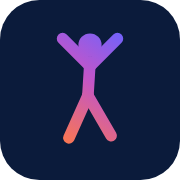
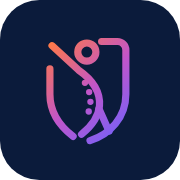
Новый знак, понятный результат клиента, тарифы с выходом, правки темы
- Знак: щит-паспорт, фигура с поднятой рукой и позвоночник точками (по концепту из генерации), иконки PWA
- Плашка «Главное» на результате открывает шторку: что увидела камера, что это значит, что изменится, что сделаем
- Клиенту зоны бытовыми словами и пояснение к каждому действию; «Ваша осанка» вместо «Как вас ведет»; «Результат» в меню
- Тарифы: кнопка «Назад» и тёмная тема кабинета
- Белый прямоугольник вокруг кнопки Google убран; первый экран во всю высоту, цвет панели браузера под экран
- Экран входа клиента с шапкой бренда

Claude-Session: https://claude.ai/code/session_01BHbfGTRUv2gfX5DUA3nVHz

Changed region(s): [[0.25, 0.1667, 0.7222, 0.8056]]

diff --git a/js/app.js b/js/app.js
@@ -17,7 +17,7 @@ import { sayText } from './saytext.js';
 import { BATTERY_UNITS, forwardBend, singleBalance, thoracicRotation, trotSweep, overheadReach, chairStand, retroGait, autoScale } from './test-battery.js';
 import { mountPacing, falseStart, matchScore, PHASE, SHORT_CMD, GO_WORD, COUNT_WORDS, numWord, ZERO_CLICK } from './pacing-guard.js';
 import { pinhole, fpsGuard, flushGL } from './hardware-adapter.js';
-import { setSession, MODES, passiveOn } from './session-controller.js';
+import { setSession, MODES, passiveOn, syncThemeColor } from './session-controller.js';
 import { touchSummary, resetTouch, startPassive, rememberBaseline } from './touch-tracker.js';
 import { runLoader, vnsSummary } from './vns-phenotype.js';
 import { ribFlare, apicalBreath, buttWink } from './biomechanics-engine.js';
@@ -76,25 +76,29 @@ const lc = t => t ? t[0].toLowerCase() + t.slice(1) : t;
 const acc = t => t.split(' ').map(w => { const m = w.match(/^(.*?)([,.]?)$/), x = m[1];
   for (const [a, b] of [['ая', 'ую'], ['яя', 'юю'], ['ца', 'цу'], ['ия', 'ию']]) if (x.endsWith(a)) return x.slice(0, -a.length) + b + m[2];
   return w; }).join(' ');
-export function verdict(top, findings) {
+// plain: клиенту бытовые зоны («ягодица сбоку справа») вместо анатомических названий
+export function verdict(top, findings, plain = false) {
   return VERBS.map(([k, verb]) => { const items = top.filter(s => s.k === k && !s.ambiguous).slice(0, 12); if (!items.length) return null;
     const s0 = items[0], f = findings.find(f => f.muscles.some(m => m.id === s0.id && (m.side === s0.side || m.side === 'BOTH')));
     // одна мышца с двух сторон: «с двух сторон» вместо двух строк
     const ids = [...new Set(items.map(s => s.id))], names = ids.map(id => { const sd = items.filter(s => s.id === id).map(s => s.side);
-      return acc(lc(C.muscles[id].name)) + ' ' + (sd.length > 1 ? 'с двух сторон' : sideWord(sd[0])); });
-    return { k, verb, what: names.join(', '), why: f ? f.observed.replace(' (на границе нормы)', '') : s0.byChain ? `Возможно, по цепи «${s0.byChain}»` : '' }; }).filter(Boolean);
+      return (plain ? lc(C.muscles[id].zone || C.muscles[id].name) : acc(lc(C.muscles[id].name))) + ' ' + (sd.length > 1 ? 'с двух сторон' : sideWord(sd[0])); });
+    if (plain) { const uniq = [...new Set(names)]; names.length = 0; names.push(...uniq.slice(0, 3)); }
+    return { k, verb, f, what: names.join(', '), why: f ? f.observed.replace(' (на границе нормы)', '') : s0.byChain ? `Возможно, по цепи «${s0.byChain}»` : '' }; }).filter(Boolean);
 }
 // skip: причины, которые уже показаны выше на экране (блок «Измерено»), под решениями не повторяем.
 // У каждой строки метка источника: ИЗМЕРЕНО (опирается на замер) или ГИПОТЕЗА (вывод по цепи). «На границе нормы» показываем, а не вырезаем.
-export function verdictCard(top, findings, empty = 'Явных перекосов не видно', skip = []) {
-  const v = verdict(top, findings);
+// что значит каждое действие простыми словами: «вот почему мне так говорили»
+const VERB_WHY = { WEAK: 'Эти мышцы недорабатывают, и их работу берут на себя соседние. Отсюда усталость и перекос.', SHORT: 'Эти мышцы зажаты и тянут сустав на себя. Отсюда скованность и тянущие ощущения.', HYPER: 'Эти мышцы работают за других и перегружены. Их нужно разгрузить, а не тянуть.' };
+export function verdictCard(top, findings, empty = 'Явных перекосов не видно', skip = [], plain = false) {
+  const v = verdict(top, findings, plain);
   if (!v.length) return `<div class="card empty">${ic('check')}<b>${empty}</b><span class="sub">Движение симметричное. Повтори тест через месяц.</span></div>`;
   // камера мерит угол, а мышца выведена из него: метка «замер» стоит у факта, мышца подписана как вероятная причина (аудит, п. 2)
-  return `<div class="card" style="padding:4px var(--s4)"><p class="sub" style="font-size:13px;padding-top:12px">Мышцы ниже: вероятная причина того, что измерила камера. Проверит специалист руками.</p>${v.map((x, i) => {
+  return `<div class="card" style="padding:4px var(--s4)"><p class="sub" style="font-size:13px;padding-top:12px">${plain ? 'Что мешает телу двигаться ровно. Это вероятная причина того, что увидела камера.' : 'Мышцы ниже: вероятная причина того, что измерила камера. Проверит специалист руками.'}</p>${v.map((x, i) => {
     const s0 = top.find(s => s.k === x.k && !s.ambiguous), f = s0 && findings.find(f => f.muscles.some(m => m.id === s0.id && (m.side === s0.side || m.side === 'BOTH')));
     const measured = f && s0 && !s0.derived && !s0.byChain, edge = f && / \(на границе нормы\)/.test(f.observed);
     const why = x.why && !skip.includes(x.why) && !(i && v[i - 1].why === x.why) ? `<span>${esc(x.why)}</span>` : '';
-    return `<div class="verdict-row"><span class="mark ${x.k}"></span><div style="flex:1;min-width:0"><div class="what"><b>${x.verb}</b> ${esc(x.what)}</div>
+    return `<div class="verdict-row"><span class="mark ${x.k}"></span><div style="flex:1;min-width:0"><div class="what"><b>${x.verb}${plain ? ':' : ''}</b> ${esc(x.what)}</div>${plain ? `<div style="font-size:14px;line-height:1.4;color:var(--sub);margin-top:4px">${VERB_WHY[x.k]}</div>` : ''}
       <div class="why">${measured ? '<span class="src">ЗАМЕР</span>' : '<span class="src hyp">ГИПОТЕЗА</span>'}${why}${edge ? '<span class="edge">на границе нормы</span>' : ''}</div></div></div>`; }).join('')}</div>`;
 }
 export const ex = id => C.exercises[id];
@@ -109,7 +113,7 @@ let view3d = null;
 let lastHead = '';
 const callerName = () => { try { const l = (new Error().stack || '').split('\n').map(x => x.trim()).filter(x => x.startsWith('at '));
   for (const x of l.slice(2)) { const m = /^at (?:async )?([\w$.]+)/.exec(x); if (m && !/^(go|Object\.go|HTMLButtonElement|HTMLDivElement|Promise|new Promise)/.test(m[1])) return m[1].replace(/^Object\./, '').slice(0, 40); } } catch (e) {} return 'screen'; };
-export function go(html) { try { screenView(callerName()); } catch (e) {} delete document.documentElement.dataset.theme; document.querySelectorAll('.qpop').forEach(x => x.remove()); if (view3d) { view3d.dispose(); view3d = null; } backFn = null; const head = html.slice(0, 260); if (head === lastHead) html = html.replace(' fade', ''); lastHead = head; app.innerHTML = html; window.scrollTo(0, 0);
+export function go(html) { try { screenView(callerName()); } catch (e) {} delete document.documentElement.dataset.theme; document.querySelectorAll('.qpop').forEach(x => x.remove()); if (view3d) { view3d.dispose(); view3d = null; } backFn = null; const head = html.slice(0, 260); if (head === lastHead) html = html.replace(' fade', ''); lastHead = head; app.innerHTML = html; window.scrollTo(0, 0); syncThemeColor();
   const tc = document.querySelector('meta[name=theme-color]'); if (tc) tc.content = html.includes('class="cam"') ? '#0A0C0F' : / dark[ "]/.test(html.slice(0, 200)) ? '#0B1B3B' : '#F5F6FA'; }
 
 // ---------- «назад»: жест и системная кнопка ведут на шаг назад в приложении, а не закрывают его ----------
@@ -1013,7 +1017,7 @@ function reasonsOf(ids, top) { const out = {};
     const list = s.k === 'WEAK' ? ((m.plan && m.plan.isolate) || m.activate || []) : releaseFor(m, s.k, ex);
     if (!out[id] && list.some(x => x.replace('{s}', sk) === id)) out[id] = { k: s.k, t: `${VERB_OF[s.k]} ${acc(lc(m.name))} ${sideWord(s.side)}` }; }
   return out; }
-// «Как вас ведет»: перекосы позы простыми словами и схемой, которая плавно уходит из ровной стойки в позу человека.
+// «Ваша осанка»: перекосы позы простыми словами и схемой, которая плавно уходит из ровной стойки в позу человека.
 // Схема спереди: правая сторона человека слева на экране. Наклоны на схеме усилены в 3 раза, чтобы их было видно.
 const POSE_PAT = { shoulder_tilt: 'tilt', trunk_shift: 'tilt', pelvis_tilt: 'pelvis', head_tilt: 'head', trot_asym: 'twist', fwd_adams: 'twist', head_forward: 'fwd', trunk_forward: 'fwd', sq_lean: 'fwd', reach_shrug: 'shrug' };
 export function posturePatterns(findings) {
@@ -1048,10 +1052,10 @@ function poseOf(pats) {
   if (g('fwd')) { const fd = g('fwd').fd; if (fd.rule.id === 'head_forward') o.headFwd = 1; else o.fwd = 14; }
   if (g('shrug')) o.shrug = 1; return o;
 }
-// «Как вас ведет» в раскрывающемся блоке: объемный скелет уходит из ровной стойки в позу человека, рядом подписи
+// «Ваша осанка» в раскрывающемся блоке: объемный скелет уходит из ровной стойки в позу человека, рядом подписи
 function postureCard(a) {
   const pats = posturePatterns(a.findings);
-  return `<div class="pad" style="margin-top:16px"><details class="acc card" id="posacc"><summary style="font-weight:600;min-height:40px"><span style="flex:1">Как вас ведет</span><span style="font-size:14px;font-weight:500;color:${pats.length ? 'var(--short-t)' : 'var(--ok-t)'};margin-right:8px">${pats.length ? esc(pats[0].label) : 'Ровно'}</span></summary>
+  return `<div class="pad" style="margin-top:16px"><details class="acc card" id="posacc"><summary style="font-weight:600;min-height:40px"><span style="flex:1">Ваша осанка</span><span style="font-size:14px;font-weight:500;color:${pats.length ? 'var(--short-t)' : 'var(--ok-t)'};margin-right:8px">${pats.length ? esc(pats[0].label) : 'Ровно'}</span></summary>
     <div class="row" style="gap:12px;align-items:center;margin-top:8px">${device.webgl2 ? '<div id="pos3d" style="width:150px;height:240px;flex:none;position:relative"></div>' : postureFigure(pats)}
       <div style="flex:1;min-width:0">${pats.length ? pats.map(p => `<div style="margin-top:10px"><b style="font-size:16px">${p.label}</b><div style="font-size:13px;color:var(--sub);line-height:1.35">${esc(p.sub)}</div></div>`).join('') : '<div style="font-size:15px;line-height:1.4">Крена, скручивания и наклона вперед не видно</div>'}
         <div style="font-size:12px;color:var(--faint);margin-top:12px">Отклонения на скелете усилены. Скелет можно крутить пальцем</div></div></div></details></div>`;
@@ -1118,7 +1122,7 @@ export function map() {
        <div class="row" id="lay" style="gap:6px;flex-wrap:wrap;justify-content:center;margin-top:6px"><button class="pill on" data-l="">Все слои</button>${LAYER_NAMES.map(([l, n]) => `<button class="pill" data-l="${l}">${n} · ${top.filter(x => layerOf(x.id) === l).length}</button>`).join('')}</div>
        <div class="row" style="gap:6px;flex-wrap:wrap;justify-content:center;margin-top:8px">${[['all', 'Всё тело'], ['head', 'Шея'], ['shoulders', 'Плечи'], ['back', 'Спина'], ['pelvis', 'Таз'], ['knees', 'Колени'], ['feet', 'Стопы']].map(([z, n]) => `<button class="pill" data-z="${z}">${n}</button>`).join('')}</div></details>` : ''}
      <div id="selbox" style="margin:8px 4px 0"></div></div></div>
-   <div class="pad" style="margin-top:16px">${verdictCard(top, a.findings, 'Сильных перекосов не видно')}</div>
+   <div class="pad" style="margin-top:16px">${verdictCard(top, a.findings, 'Сильных перекосов не видно', [], true)}</div>
    ${postureCard(a)}
    ${iapCard(a)}
    ${cnsCard(t, a)}
@@ -1155,6 +1159,7 @@ export function map() {
   if ($('#again')) $('#again').onclick = again;
   if ($('#re')) $('#re').onclick = () => { FULL = false; prep(); };
   if ($('#resend')) $('#resend').onclick = async () => { const p = await outbox.get().catch(() => null); if (p) sendResult(p); }; bindRetestCard(); if (!SHARED && INV()) addSpecHint();
+  if ($('#mainl')) $('#mainl').onclick = () => mainSheet(top, a, pl.length ? () => durationSheet(top, pl, why) : null);
   bindClientNav(); if ($('#set')) $('#set').onclick = settings; $('#more').onclick = () => moreSheet(cur, top, !!pl.length); $('#lrs').onclick = () => moreSheet(cur, top, !!pl.length, 'lr'); if ($('#rec')) $('#rec').onclick = async () => { const p = await consumerPoses.get(); motionViewer(p, t.setup, map, 'Тест ' + new Date(t.date).toLocaleDateString('ru', { day: 'numeric', month: 'long' })); }; if ($('#cab')) $('#cab').onclick = () => { SHOW_T = null; clientHome(); }; if ($('#toLast')) $('#toLast').onclick = () => { SHOW_T = null; map(); };
   // бета и калибровка: сразу после свежего теста короткая анкета «как прошло, что мешало» (один раз на тест)
   if (!SHARED && reveal && Date.now() - t.date < 30 * 60e3 && (isBetaMode() || (INV() || {}).cal)) setTimeout(() => { if (document.getElementById('heat') || document.getElementById('vis')) testSurvey(String(t.date), { cal: !!(INV() || {}).cal, steps: (t.protocol || []).length }); }, 30000);
@@ -1162,11 +1167,29 @@ export function map() {
 // одна человеческая фраза итога сверху: главное наблюдение движения, без диагноза (спецификация UXUI, раздел 5)
 function mainLine(top, a) {
   const v = verdict(top, a.findings)[0], why = v && v.why ? v.why.replace(/^\S/, c => c.toUpperCase()) : '';
-  return `<div class="pad" style="margin-top:12px"><div class="main-line">${why ? `<b>${esc(why)}</b>` : '<b>Явных перекосов не видно</b>'}<span>Это наблюдение движения, не диагноз. Ниже: что укрепить и что расслабить.</span></div></div>`;
+  if (!why) return `<div class="pad" style="margin-top:12px"><div class="main-line"><b>Явных перекосов не видно</b><span>Тело двигается ровно. Повторите тест через месяц.</span></div></div>`;
+  return `<div class="pad" style="margin-top:12px"><button class="main-line" id="mainl" aria-label="Подробнее: что это значит"><span class="ml-k">Главное</span><b>${esc(why)}</b><span class="ml-more">Что это значит и что с этим делать ${ic('chevron-right', 's')}</span></button></div>`;
+}
+// шторка по главной находке: что увидели, что это значит, почему вам так говорили, что сделаем
+function mainSheet(top, a, start) {
+  const v = verdict(top, a.findings, true), f = v[0] && v[0].f; if (!f) return;
+  const ms = (f.muscles || []).map(m => ({ ...m, mm: C.muscles[m.id] })).filter(m => m.mm), ben = [...new Set(ms.map(m => m.mm.benefit).filter(Boolean))].slice(0, 2);
+  const zone = m => lc(m.mm.zone || m.mm.name) + ' ' + (m.side === 'BOTH' ? 'с двух сторон' : sideWord(m.side));
+  const DO = { WEAK: 'Укрепим', SHORT: 'Расслабим', OVERLOAD: 'Разгрузим', HYPER: 'Разгрузим' };
+  const groups = Object.entries(ms.reduce((o, m) => { const k = DO[m.state] || 'Проверим'; (o[k] = o[k] || []).push(zone(m)); return o; }, {}));
+  const d = document.createElement('div'); d.className = 'sheet';
+  d.innerHTML = `<div><button class="sheet-x" aria-label="Закрыть">✕</button><div class="eyebrow">Что увидела камера</div><h2 style="margin-top:6px">${esc(f.observed.replace(' (на границе нормы)', ''))}</h2>
+    <div class="ms-block"><div class="ms-h">${ic('info', 's')}Что это значит</div><p>${esc(f.meaning || '')}</p></div>
+    ${ben.length ? `<div class="ms-block"><div class="ms-h">${ic('check', 's')}Что изменится, если поработать</div>${ben.map(b => `<p>${esc(b)}</p>`).join('')}</div>` : ''}
+    ${groups.length ? `<div class="ms-block"><div class="ms-h">${ic('activity', 's')}Что сделаем в комплексе</div>${groups.map(([k, z]) => `<p><b>${k}:</b> ${esc([...new Set(z)].slice(0, 3).join(', '))}</p>`).join('')}</div>` : ''}
+    <p class="sub" style="font-size:13px;margin-top:12px">Это наблюдение движения, не диагноз. Если что-то болит, покажитесь врачу или специалисту.</p>
+    ${start ? `<button class="btn" id="msgo" style="margin-top:16px">${ic('play', 's')}Начать комплекс</button>` : ''}</div>`;
+  document.body.appendChild(d); const close = () => d.remove(); d.onclick = e => { if (e.target === d) close(); }; d.querySelector('.sheet-x').onclick = close;
+  if (start) d.querySelector('#msgo').onclick = () => { close(); start(); };
 }
 /** Нижнее меню клиента: итог, история, поделиться, профиль. */
 export function clientNav(on) {
-  const items = SHARED ? [['home', 'activity', 'Итог'], ['shr', 'share', 'Поделиться']] : [['home', 'activity', 'Итог'], ['cab', 'clock', 'История'], ['shr', 'share', 'Поделиться'], ['set', 'user', 'Профиль']];
+  const items = SHARED ? [['home', 'activity', 'Результат'], ['shr', 'share', 'Поделиться']] : [['home', 'activity', 'Результат'], ['cab', 'clock', 'История'], ['shr', 'share', 'Поделиться'], ['set', 'user', 'Профиль']];
   return `<nav class="bnav" aria-label="Разделы">${items.map(([id, i, n]) => `<button id="${id === on ? 'nav-on' : id}" data-nav="${id}"${id === on ? ' aria-current="page"' : ''}>${ic(i, 's')}<span>${n}</span></button>`).join('')}</nav>`;
 }
 function bindClientNav() {

diff --git a/pricing.html b/pricing.html
@@ -5,18 +5,22 @@
 <meta name="description" content="Видеотест движения по камере телефона для кинезиотерапевтов, тренеров, массажистов и студий. Карта мышц, было → стало, тест клиента из дома.">
 <link rel="preconnect" href="https://fonts.gstatic.com" crossorigin><link href="https://fonts.googleapis.com/css2?family=Manrope:wght@400;500;600;700;800&family=JetBrains+Mono:wght@500&display=swap" rel="stylesheet">
 <style>
-:root{--bg:#F5F6FA;--surface:#fff;--surface-2:#EEF0F6;--ink:#0B1B3B;--text:#0B1B3B;--sub:#566079;--line:#E1E4EE;--signal:#6C63FF;--mono:'JetBrains Mono',ui-monospace,monospace}
+:root{color-scheme:dark;--bg:#0B1220;--surface:#121C31;--surface-2:#1A2640;--ink:#EEF2FA;--text:#EEF2FA;--sub:#9FAAC2;--line:#26334F;--signal:#6C63FF;--grad:linear-gradient(135deg,#FF7A45,#C255C9 50%,#6C63FF);--mono:'JetBrains Mono',ui-monospace,monospace}
 *{box-sizing:border-box}body{font:16px/1.5 Manrope,system-ui,sans-serif;background:var(--bg);color:var(--text);margin:0;-webkit-font-smoothing:antialiased}
 main{max-width:860px;margin:0 auto;padding:28px 20px 60px}h1{font-size:30px;font-weight:700;letter-spacing:-.03em;line-height:1.12;margin:8px 0}h2{font-size:22px;margin:40px 0 12px;letter-spacing:-.02em}
 .caps{font:500 12px/1.35 var(--mono);letter-spacing:.04em;text-transform:uppercase;color:var(--sub)}.sub{color:var(--sub)}
 .grid{display:grid;gap:12px;grid-template-columns:repeat(auto-fit,minmax(240px,1fr))}.card{background:var(--surface);border-radius:24px;padding:20px}
 .card h3{margin:0 0 4px;font-size:17px}.card p{margin:6px 0;font-size:14px}.card ul{margin:8px 0 0;padding-left:18px;font-size:14px}.card li{margin:4px 0}
-.plan{display:flex;flex-direction:column}.plan .price{font-size:24px;font-weight:700;margin:6px 0 2px;font-variant-numeric:tabular-nums}.plan.pro{background:var(--ink);color:#fff}.plan.pro .sub{color:#B6BED0}
+.plan{display:flex;flex-direction:column}.plan .price{font-size:24px;font-weight:700;margin:6px 0 2px;font-variant-numeric:tabular-nums}.plan.pro{background:linear-gradient(160deg,#23306B,#0B1B3B 70%);color:#fff;border:1px solid #3A3F8F}.plan.pro .sub{color:#B6BED0}
 .tag{display:inline-block;background:var(--surface-2);color:var(--text);border-radius:6px;padding:3px 8px;font:500 12px var(--mono)}.plan.pro .tag{background:var(--signal);color:#fff}
-.btn{display:flex;align-items:center;justify-content:center;height:56px;margin-top:auto;border-radius:16px;background:var(--ink);color:#fff;text-decoration:none;font-weight:600}.plan.pro .btn{background:var(--signal);color:#fff}
+.btn{display:flex;align-items:center;justify-content:center;height:56px;margin-top:auto;border-radius:16px;background:var(--surface-2);color:#fff;text-decoration:none;font-weight:600}.plan.pro .btn{background:var(--signal);color:#fff}
 .note{background:var(--surface);border:1px solid var(--line);border-radius:16px;padding:16px;font-size:15px;margin-top:16px}
-a{color:var(--ink)}
-</style></head><body><main>
+a{color:#A9A4FF}
+.top{position:sticky;top:0;z-index:5;display:flex;align-items:center;gap:12px;padding:calc(env(safe-area-inset-top) + 10px) 16px 10px;background:rgba(11,18,32,.9);backdrop-filter:blur(12px);-webkit-backdrop-filter:blur(12px);border-bottom:1px solid var(--line)}
+.top a.back{display:flex;align-items:center;justify-content:center;width:44px;height:44px;border-radius:50%;background:var(--surface);color:var(--text);text-decoration:none}
+.top b{font-size:17px;font-weight:800;flex:1}.top img{width:28px;height:28px}
+h1{font-weight:800}.caps{font-family:Manrope,sans-serif;font-weight:600;text-transform:none;letter-spacing:.02em;font-size:13px}
+</style></head><body><header class="top"><a class="back" href="/" id="back" aria-label="Назад"><svg width="22" height="22" viewBox="0 0 24 24" fill="none" stroke="currentColor" stroke-width="2" stroke-linecap="round" stroke-linejoin="round"><path d="m15 18-6-6 6-6"/></svg></a><img src="icons/mark.svg" alt=""><b>Тарифы</b></header><main>
 <div class="caps">BodyPassport для специалистов</div>
 <h1>Видеотест движения, который объясняет клиенту, зачем ему к вам</h1>
 <p class="sub">Телефон на полу, клиент приседает 2–5 минут. Вы получаете углы и асимметрии, гипотезу по мышцам для проверки руками, свое решение и назначение в одном отчете, а через месяц сравнение «было → стало».</p>
@@ -64,4 +68,4 @@ a{color:var(--ink)}
 <h2>Кто делает</h2>
 <div class="card" style="display:flex;gap:16px;align-items:center"><img src="img/rifat.jpg" alt="Рифат Аюпов" width="72" height="72" style="border-radius:50%;object-fit:cover;flex:none"><div><h3>Рифат Аюпов</h3><p class="sub" style="margin:2px 0 6px">Биомеханик, кинезиотерапевт, автор методики и разработчик BodyPassport</p><a href="https://t.me/RifatAiupov">Написать в Telegram: @RifatAiupov</a></div></div>
 <p class="sub" style="margin-top:30px;font-size:14px">Методика: Рифат Аюпов, биомеханик, кинезиотерапевт. <a href="/privacy">Конфиденциальность</a> · <a href="/terms">Соглашение</a> · <a href="/licenses">Лицензии</a></p>
-</main><script src="js/pricing-mode.js"></script></body></html>
+</main><script src="js/pricing-mode.js"></script><script>document.getElementById('back').onclick=e=>{if(history.length>1&&document.referrer&&new URL(document.referrer).origin===location.origin){e.preventDefault();history.back();}};</script></body></html>

diff --git a/index.html b/index.html
@@ -367,7 +367,11 @@ h1{letter-spacing:-.025em;font-weight:800}h2,h3{font-weight:700}
 .cam-confirm{position:absolute;inset:0;z-index:40;background:rgba(4,8,18,.72);display:flex;align-items:flex-end;padding:0 var(--s3) calc(env(safe-area-inset-bottom) + 20px);animation:fdin var(--d2) var(--ease-out)}
 .cam-confirm>div{width:100%;background:#121C31;border:1px solid var(--cam-line);border-radius:var(--r-xl);padding:var(--s5);display:flex;flex-direction:column;gap:var(--s2);animation:up var(--d3) var(--ease-out)}
 .cam-confirm h2{color:#fff}.cam-confirm p{color:var(--cam-sub);margin-bottom:var(--s3)}
-.main-line{background:var(--hero-bg);color:#fff;border-radius:var(--r-lg);padding:var(--s4) 18px;display:flex;flex-direction:column;gap:6px;box-shadow:var(--sh-2)}
+.main-line{width:100%;border:0;text-align:left;font:inherit;cursor:pointer;background:var(--hero-bg);color:#fff;border-radius:var(--r-lg);padding:var(--s4) 18px;display:flex;flex-direction:column;gap:6px;box-shadow:var(--sh-2)}
+.main-line .ml-k{font-size:12px;font-weight:700;letter-spacing:.04em;text-transform:uppercase;background:var(--grad);-webkit-background-clip:text;background-clip:text;color:transparent}
+.main-line .ml-more{display:flex;align-items:center;gap:4px;font-size:14px;font-weight:600;color:#C9C5FF!important;margin-top:4px}
+.ms-block{margin-top:16px;background:var(--surface);border-radius:var(--r-md);padding:14px 16px;box-shadow:var(--sh-1)}.ms-block p{font-size:15px;line-height:1.5;margin-top:6px}
+.ms-h{display:flex;align-items:center;gap:8px;font-weight:700;font-size:15px;color:var(--violet)}
 .main-line b{font-size:18px;line-height:1.3;font-weight:700}.main-line span{font-size:13px;line-height:1.4;color:rgba(255,255,255,.72)}
 .bnav{justify-content:space-around;padding-top:4px}.bnav>button[aria-current]{color:var(--violet)}
 :root[data-session=SPECIALIST_OPERATED] .bnav>button[aria-current]{color:#A9A4FF}
@@ -375,6 +379,15 @@ h1{letter-spacing:-.025em;font-weight:800}h2,h3{font-weight:700}
 .nav-plus .ic{width:40px;height:40px;padding:9px;border-radius:14px;background:var(--brand);color:#fff;box-shadow:0 6px 18px rgba(108,99,255,.35);margin-top:-14px}
 .kpi b{font-weight:800}
 .group .list-item,.group .row-link{box-shadow:none}
+/* кнопка Google в iframe светлая: на тёмной теме iframe рисовал белый прямоугольник */
+#gbtn{color-scheme:light}
+/* первый экран во всю высоту, без светлых полос сверху и снизу */
+html:has(.welcome),body:has(.welcome){background:#0B1B3B}
+body:has(.welcome) #betabar{background:rgba(11,27,59,.72);backdrop-filter:blur(10px);-webkit-backdrop-filter:blur(10px)}
+.welcome{margin-bottom:calc(-1 * env(safe-area-inset-bottom))}.welcome .dock.dark-dock{padding-bottom:calc(env(safe-area-inset-bottom) + 24px)}
+.client-hero{height:180px;margin-top:4px}.client-hero>img{object-position:50% 18%}.client-hero::after{background:linear-gradient(transparent 35%,rgba(11,27,59,.9))}
+.ch-txt img{width:28px!important;height:28px!important;object-fit:contain}
+.ch-txt{position:absolute;left:16px;bottom:14px;z-index:1;display:flex;align-items:center;gap:10px;color:#fff;font-size:18px;font-weight:800}
 </style>
 </head>
 <body>

diff --git a/js/auth.js b/js/auth.js
@@ -1,9 +1,10 @@
 // Быстрый вход (Google, Telegram), согласие на обработку данных и проверка противопоказаний перед тестом.
 import { device, ic } from './core.js';
 import { track } from './track.js';
+import { syncThemeColor } from './session-controller.js';
 
 const app = () => document.querySelector('#app');
-const show = html => { app().innerHTML = html; window.scrollTo(0, 0); };
+const show = html => { app().innerHTML = html; window.scrollTo(0, 0); syncThemeColor(); };
 const esc = v => String(v ?? '').replace(/[&<>"'`]/g, c => ({ '&': '&amp;', '<': '&lt;', '>': '&gt;', '"': '&quot;', "'": '&#39;', '`': '&#96;' })[c]);
 // ключ меняется вместе с версией политики: при новой версии согласие спрашивается заново
 const CONSENT_KEY = 'bp_consent_2026-10-b2';
@@ -90,7 +91,7 @@ export function loginScreen(role, cont, opts = {}) {
   const consented = () => ['cons', 'consh'].every(id => document.getElementById(id) && document.getElementById(id).checked);
   if (pro) document.documentElement.dataset.theme = 'pro'; else delete document.documentElement.dataset.theme;
   show(`<div class="scr fade"><div class="top-bar">${opts.back ? `<button class="round" id="lback" aria-label="Назад">${ic('chevron-left')}</button>` : '<div style="height:48px"></div>'}<span style="flex:1"></span>${pro ? '' : ''}</div>
-   ${pro ? '<div class="pro-hero"><img src="img/bp-pro-body.webp" alt=""></div>' : ''}<div class="pad" style="flex:1;display:flex;flex-direction:column;gap:var(--s3)">
+   ${pro ? '<div class="pro-hero"><img src="img/bp-pro-body.webp" alt=""></div>' : '<div class="pro-hero client-hero"><img src="img/bp-hero-client.webp" alt=""><div class="ch-txt"><img src="icons/mark.svg" width="28" height="28" alt=""><b>BodyPassport</b></div></div>'}<div class="pad" style="flex:1;display:flex;flex-direction:column;gap:var(--s3)">
     <div class="eyebrow">${pro ? 'Кабинет специалиста' : 'Вход'}${configSync().beta !== false ? ' · бета' : ''}</div>
     <h1>${pro ? 'Вход в кабинет' : 'Вход в BodyPassport'}</h1>
     <p class="sub">${pro ? 'Кабинет привязан к вашему аккаунту. Результаты клиентов видите только вы.' : 'Аккаунт сохранит ваши результаты и историю тестов. Пароль не нужен: вход через Google, Telegram или код на почту.'}</p>

diff --git a/js/session-controller.js b/js/session-controller.js
@@ -34,3 +34,10 @@ export const whenPassive = fn => passiveOn() ? fn() : null;
 export function onSession(fn) { listeners.add(fn); return () => listeners.delete(fn); }
 /** Роль по умолчанию: клиент. Специалист только после явного переключателя в профиле. */
 export const DEFAULT_ROLE = 'client';
+/** Цвет строки состояния и панели браузера под экран: тёмный на первом экране, камере и в кабинете, иначе светлый. */
+export function syncThemeColor() {
+  try { const root = document.documentElement, dark = !!document.querySelector('.welcome,.cam,.dark') || root.dataset.session === MODES.SPEC || root.dataset.theme === 'pro';
+    const c = document.querySelector('.welcome') ? '#0B1B3B' : document.querySelector('.cam,.dark') ? '#070C18' : dark ? '#0B1220' : '#F5F6FA';
+    let m = document.querySelector('meta[name=theme-color]'); if (!m) { m = document.createElement('meta'); m.name = 'theme-color'; document.head.appendChild(m); } m.content = c; } catch (e) {}
+}
+

diff --git a/js/skeleton3d.js b/js/skeleton3d.js
@@ -1,4 +1,4 @@
-// Объемный скелет для «Как вас ведет»: из ровной стойки плавно уходит в позу человека и возвращается, камера качается
+// Объемный скелет для «Ваша осанка»: из ровной стойки плавно уходит в позу человека и возвращается, камера качается
 // вправо-влево, чтобы были видны и крен, и скручивание, и наклон вперед. Отклонения усилены втрое, как на плоской схеме.
 // Фигура смотрит на камеру (+z), правая сторона человека на экране слева (-x).
 

diff --git a/sw.js b/sw.js
@@ -1,5 +1,5 @@
 // Код и тексты всегда свежие (сначала сеть), тяжелые файлы из кэша (модель, голос, картинки, 3D).
-const V = 'bp-v4.1';
+const V = 'bp-v4.2';
 // файлы с закрепленной версией (модель позы, MediaPipe, three.js, 3D-модель) живут в отдельном кэше и не скачиваются заново при каждом релизе
 const HV = 'bp-heavy-1';
 const FIXED = /\/(models|vendor)\/|body3d\.bin|cdn\.jsdelivr\.net/;
